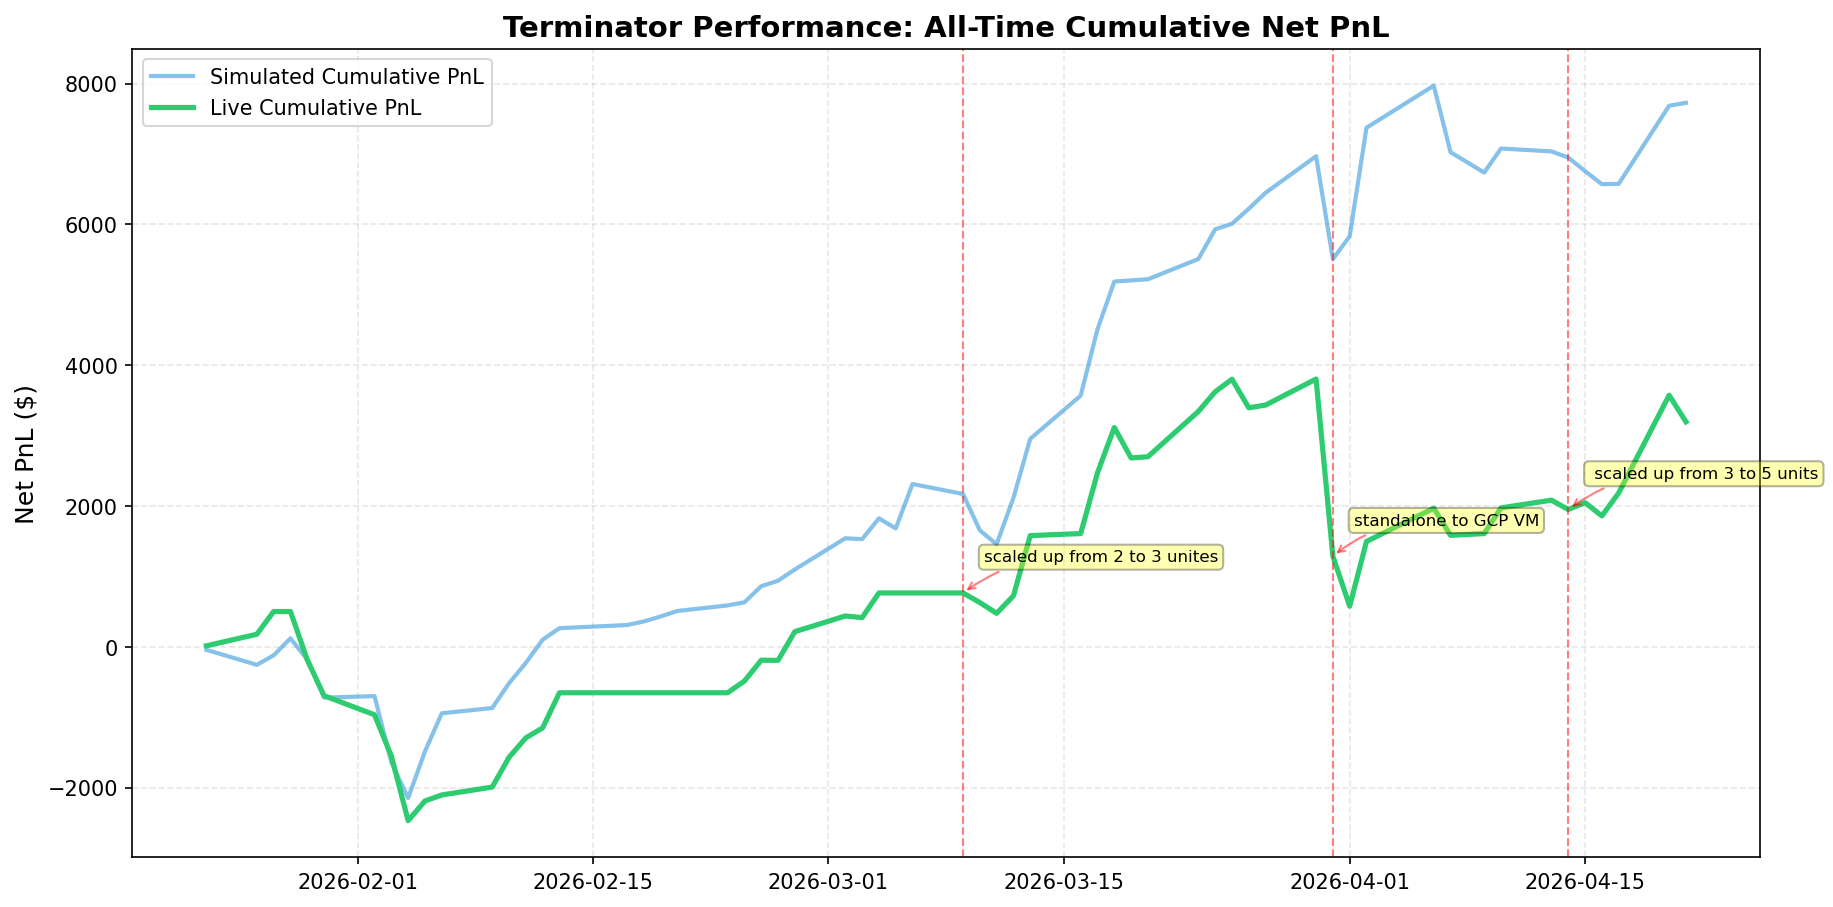
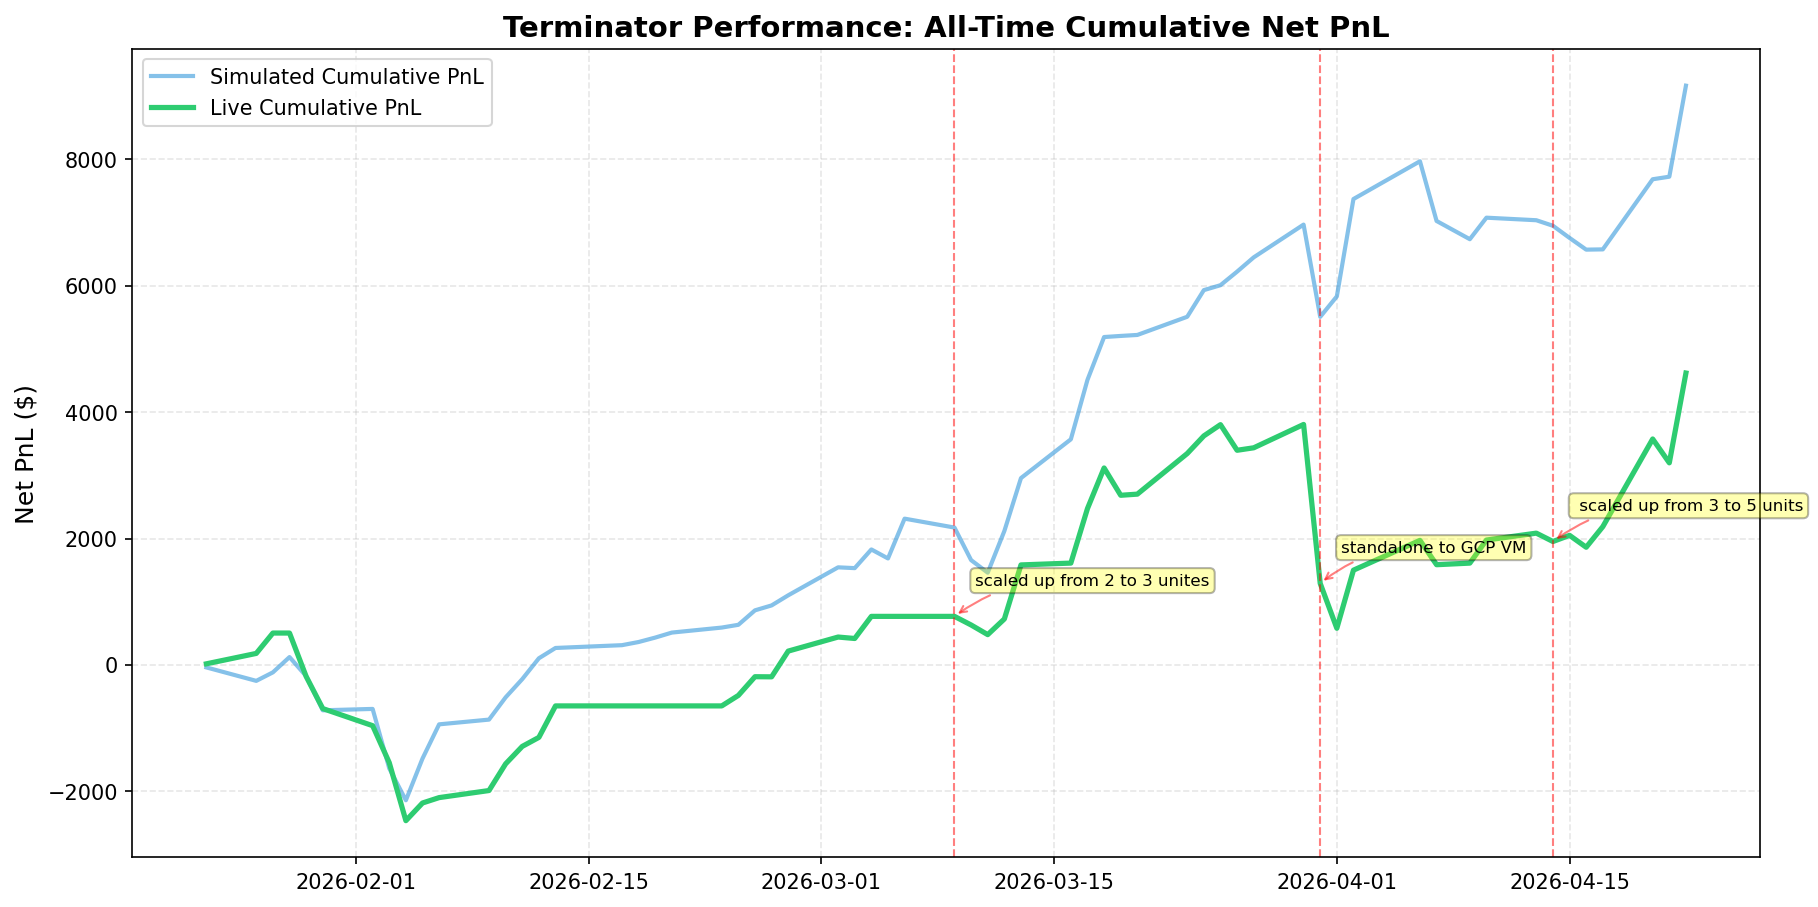
docs: auto-update performance stats 2026-04-22

diff --git a/README.md b/README.md
@@ -118,12 +118,12 @@ The system uses a **GitHub Pull-based** deployment model. Code is automatically 
 
 | Period | Days | Total PnL | Trades/Day | Fees | Net PnL | Win % | Profit Factor | Sharpe | Max DD | Live OverTrade % | Live-Sim Net PnL Diff |
 | :--- | :--- | :--- | :--- | :--- | :--- | :--- | :--- | :--- | :--- | :--- | :--- |
-| Past 5D | 5 | $1,550.00 | 15.8 | $305.10 | **$1,244.90** | 60.0% | 3.20 | 5.72 | $-377.80 | -31.9% | $468.18 |
-| Past 22D | 22 | $1,137.50 | 17.5 | $1,056.55 | **$80.95** | 63.6% | 1.02 | 0.08 | $-3,225.81 | -7.4% | $-2,456.95 |
-| YTD | 60 | $5,250.00 | 20.7 | $2,052.08 | **$3,197.92** | 56.7% | 1.38 | 1.60 | $-3,225.81 | -13.4% | $-4,529.36 |
-| All Time | 60 | $5,250.00 | 20.7 | $2,052.08 | **$3,197.92** | 56.7% | 1.38 | 1.60 | $-3,225.81 | -13.4% | $-4,529.36 |
+| Past 5D | 5 | $2,845.00 | 15.2 | $275.72 | **$2,569.28** | 60.0% | 5.54 | 9.56 | $-377.80 | -23.2% | $159.14 |
+| Past 22D | 22 | $2,982.50 | 16.4 | $1,047.51 | **$1,934.99** | 68.2% | 1.41 | 1.77 | $-3,225.81 | -11.3% | $-2,026.37 |
+| YTD | 61 | $6,710.00 | 20.6 | $2,090.50 | **$4,619.50** | 57.4% | 1.55 | 2.18 | $-3,225.81 | -13.2% | $-4,548.64 |
+| All Time | 61 | $6,710.00 | 20.6 | $2,090.50 | **$4,619.50** | 57.4% | 1.55 | 2.18 | $-3,225.81 | -13.2% | $-4,548.64 |
 
 
-*Updated: 2026-04-21 16:00:07*
+*Updated: 2026-04-22 16:00:06*
 
 <!-- STATS_END -->
